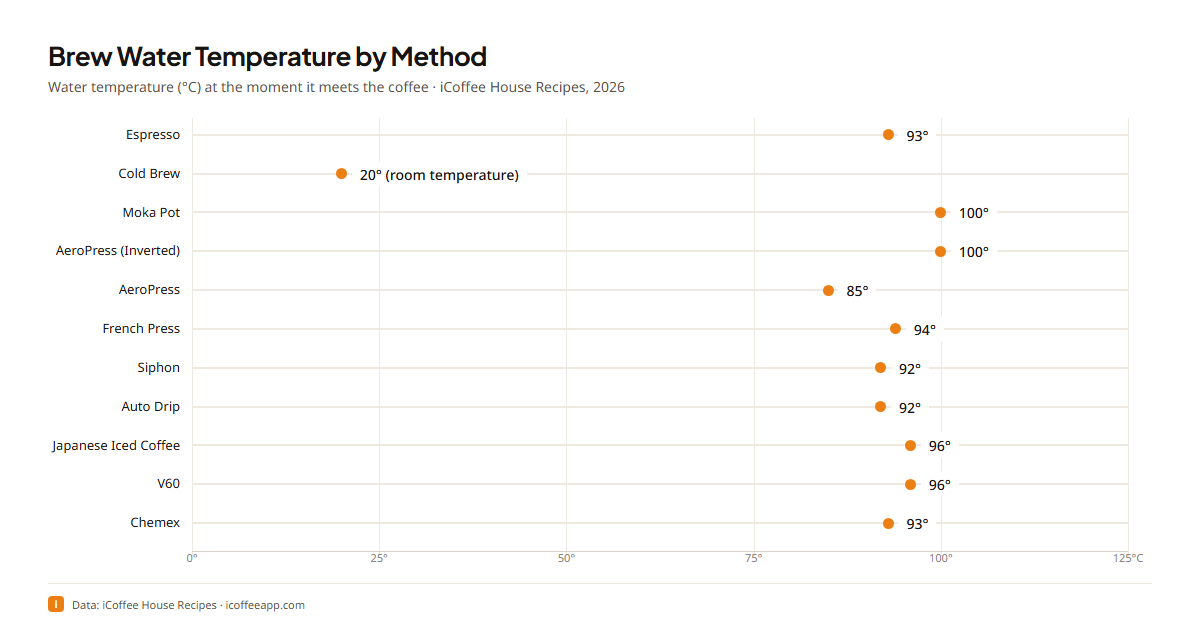
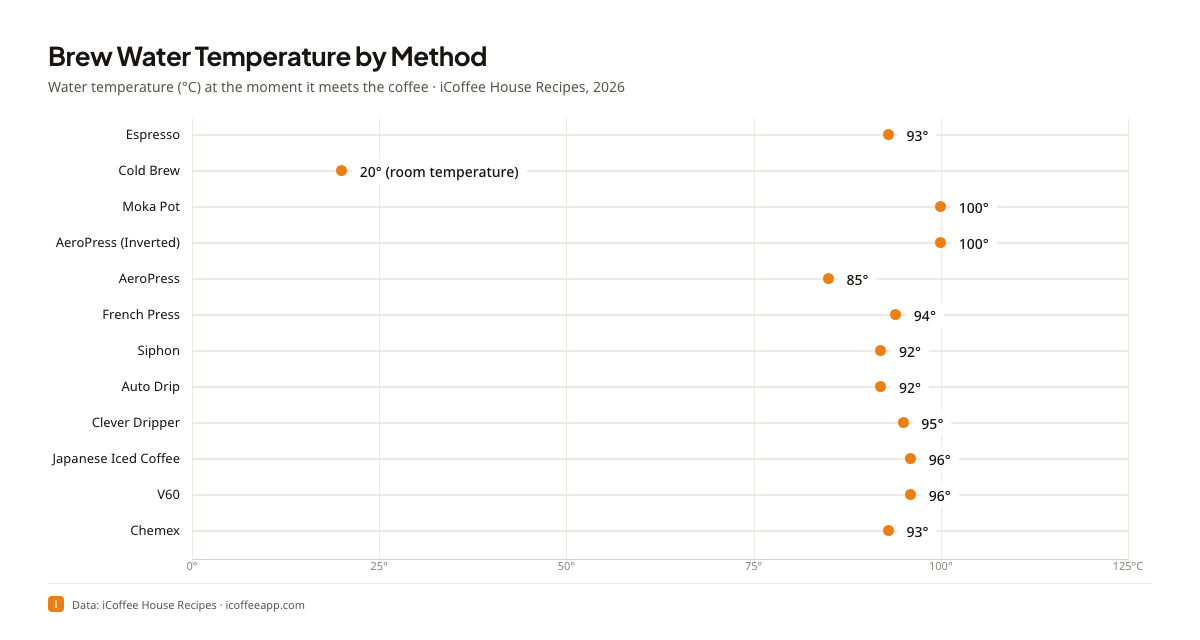
Add Clever Dripper to brewing dataset (12 recipes)

diff --git a/index.html b/index.html
@@ -196,14 +196,14 @@
       temperature, dose, and brew water for every brewing method we publish, as
       machine-readable data files and charts in five languages.
     </p>
-    <p id="method-list-sentence">The methods covered: Espresso, Cold Brew, Moka Pot, AeroPress (Inverted), AeroPress, French Press, Siphon, Auto Drip, Japanese Iced Coffee, V60, and Chemex.</p>
+    <p id="method-list-sentence">The methods covered: Espresso, Cold Brew, Moka Pot, AeroPress (Inverted), AeroPress, French Press, Siphon, Auto Drip, Clever Dripper, Japanese Iced Coffee, V60, and Chemex.</p>
     <p>
       The full write-up with context and sources lives on the iCoffee coffee statistics page:
       <a href="https://icoffeeapp.com/en/learn/coffee-statistics">icoffeeapp.com/en/learn/coffee-statistics</a>.
     </p>
 
     <h2>Brewing parameters at a glance</h2>
-    <p class="freshness" id="data-freshness">Data exported 10 Oct 2026 · 11 recipes</p>
+    <p class="freshness" id="data-freshness">Data exported 14 Oct 2026 · 12 recipes</p>
     <p>The full dataset, from the current published recipes:</p>
     <noscript>
       <p>

diff --git a/README.md b/README.md
@@ -5,7 +5,7 @@ Brewing parameters and data graphics from the published
 temperature, dose, and brew water for every brewing method we publish, as
 machine-readable data files and charts in five languages. The methods covered
 today: espresso, moka pot, V60, AeroPress (standard and inverted), French
-press, siphon, cold brew, Japanese iced coffee, Auto Drip, and Chemex.
+press, siphon, cold brew, Japanese iced coffee, Auto Drip, Clever Dripper, and Chemex.
 
 All values are the parameters we actually publish and maintain in our recipes,
 not aggregated third-party figures. The full write-up with context and sources
@@ -39,6 +39,7 @@ The full dataset, from the current published recipes:
 | French Press | 1:15 | 94 | 30 | 450 |
 | Siphon | 1:15 | 92 | 17 | 255 |
 | Auto Drip | 1:16 | 92 | 60 | 960 |
+| Clever Dripper | 1:16 | 95 | 30 | 480 |
 | Japanese Iced Coffee | 1:16 | 96 | 30 | 300 |
 | V60 | 1:16 | 96 | 18 | 288 |
 | Chemex | 1:17 | 93 | 30 | 510 |

diff --git a/SOURCE.md b/SOURCE.md
@@ -5,10 +5,10 @@ corpus on [icoffeeapp.com](https://icoffeeapp.com).
 
 | Field | Value |
 |---|---|
[1 lines of base64/hex data omitted]
-| Charts generated at | 2026-09-28T21:32:49.008Z |
-| Export run | 2026-10-10T11:47:35.931Z |
-| House recipes | 11 |
[1 lines of base64/hex data omitted]
+| Charts generated at | 2026-10-14T18:26:38.284Z |
+| Export run | 2026-10-14T18:56:58.385Z |
+| House recipes | 12 |
 | Pipeline | `scripts/export-backlink-repo.mjs` |
 | Stats page | https://icoffeeapp.com/en/learn/coffee-statistics |
 
